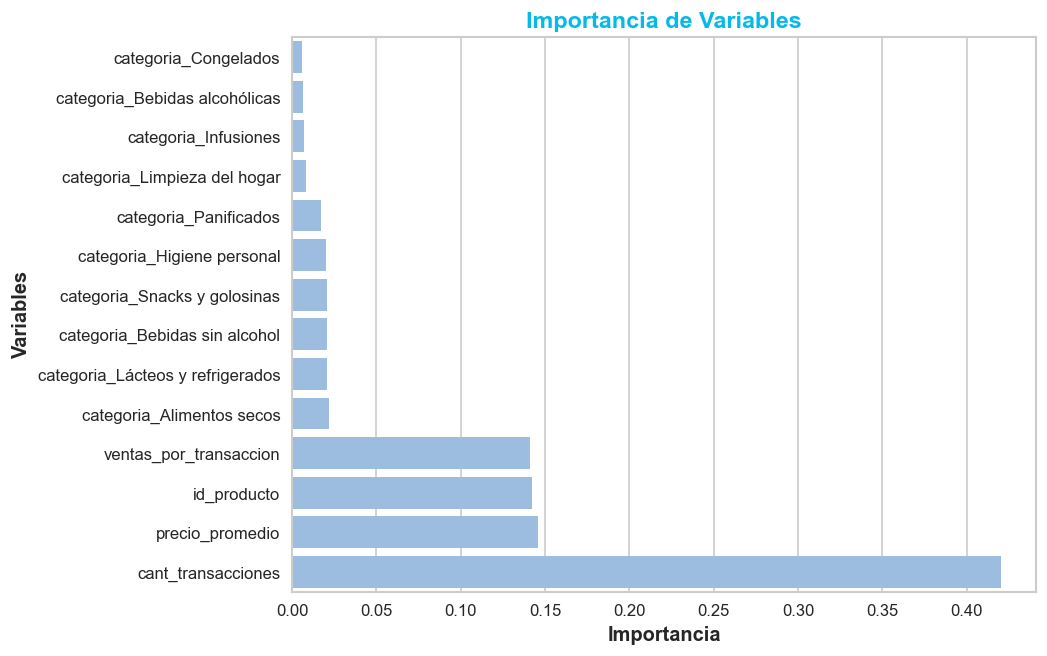
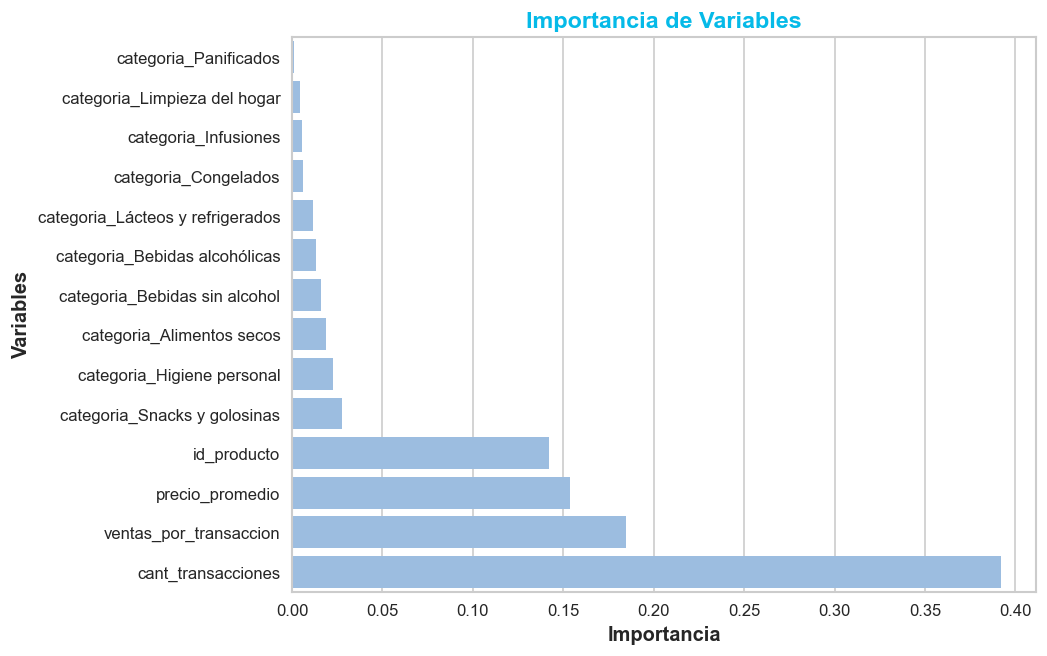
docs: refine and correct project documentation

diff --git a/src/pages/random_forest_manual.py b/src/pages/random_forest_manual.py
@@ -97,6 +97,14 @@ def show_random_forest_manual():
     permitiendo comparar los resultados con modelos generados mediante AutoML
     (PyCaret) y profundizar el entendimiento del algoritmo.
     """
+    st.markdown(
+        """
+        <script>
+            window.scrollTo(0, 0);
+        </script>
+        """,
+        unsafe_allow_html=True
+    )
 
     st.markdown(
         "<h3 style='color:#f1c40f;'>Entrenamiento Manual</h3>",
@@ -169,7 +177,7 @@ def show_random_forest_manual():
         test_size = st.slider("Tamaño del Test (%)", 10, 40, 31) / 100
         
         # Semilla para reproducibilidad
-        random_state = st.number_input("Random State", value=789)
+        random_state = st.number_input("Random State", value=456)
 
     # ===============================================================
     # 4⃣ VALIDACIONES
@@ -235,7 +243,7 @@ def show_random_forest_manual():
             X_train, X_test, y_train, y_test = train_test_split(
                 X, y, 
                 test_size=0.31,     # Mismo que PyCaret
-                random_state=789,   # Mismo que PyCaret
+                random_state=456,   # Mismo que PyCaret
                 stratify=y
             )
             
@@ -247,7 +255,7 @@ def show_random_forest_manual():
                 min_samples_leaf=2,
                 max_features='sqrt',        # Mejor generalización
                 class_weight='balanced',
-                random_state=789,
+                random_state=456,
                 n_jobs=-1
             )
             

diff --git a/src/pages/documentacion.py b/src/pages/documentacion.py
@@ -226,7 +226,7 @@ def mostrar_documentacion():
         # ◽ Ventas por mes
         with st.expander("🔸 Gráfica: Ventas Totales por mes"):
             mostrar_graficos([
-                "assets/plots/Ventas_totales_por_mes.png",
+                "assets/plots/Ventas_Totales_por_Mes.png",
             ], columnas=1)
             mostrar_seccion_md(
                 contenido_md,

diff --git a/src/pages/automated_ml.py b/src/pages/automated_ml.py
@@ -56,7 +56,7 @@ def run_automl(df, target, normalize, remove_multicollinearity):
     setup(
         data=df,
         target=target,
-        session_id=789,
+        session_id=456,
         normalize=normalize,
         remove_multicollinearity=remove_multicollinearity,
         verbose=False

diff --git a/docs/documentacion_tienda_aurelion.md b/docs/documentacion_tienda_aurelion.md
@@ -476,38 +476,37 @@ El experimento se ejecutó con PyCaret utilizando las siguientes configuraciones
   - **Remoción de multicolinealidad**: Activada  
   - **Split train/test**: 69%/31%
   - **Cross-validation**: 10 folds
-  - **Seed (session_id)**: 789
+  - **Seed (session_id)**: 456
   - **Métrica principal (sort)**: AUC
 
-3⃣ **Resultados de la comparación** 🟨🟨🟨🟨🟨🟨🟨🟨🟨
+3⃣ **Resultados de la comparación** 
 
 Los modelos fueron ordenados por AUC (métrica seleccionada en `compare_models`).
 
   🔸 **Top modelos según AUC**
 
-  | Modelo | Accuracy | AUC | F1-Score | Tiempo (s) |
-  |--------|----------|-----|----------|------------|
-  | Random Forest | 0.9697 | 1 | 0.9689 | 1.263 |
-  | LightGBM | 0.9394 | 0.9728 | 0.9388 | 0.14 |
-  | K Neighbors Classifier |	0.4848	| 0.6918 | 0.4577 |	0.06 |
-  | Logistic Regression	| 0.7576	| 0	| 0.7516	| 6.5733 |
-  | Gradient Boosting Classifier	| 1	| 0 |	1 |	0.15 |
-
+  | Model | Accuracy | AUC | Recall | Prec. | F1 | Kappa | MCC | TT (Sec) |
+  |-------|----------|-----|--------|-------|----|-------|-----|----------|
+  | Random Forest Classifier | 0.9091 | 0.996 | 0.9091 | 0.9333 | 0.9115 | 0.865 | 0.8751 | 1.24 |
+  | Light Gradient Boosting Machine | 0.8636 | 0.9708 | 0.8636 | 0.8884 | 0.8624 | 0.7964 | 0.8073 | 0.19 |
+  | K Neighbors Classifier | 0.5152 | 0.7784 | 0.5152 | 0.5755 | 0.5055 | 0.262 | 0.2755 | 0.0667 |
+  | Logistic Regression | 0.7273 | 0 | 0.7273 | 0.7607 | 0.7267 | 0.5904 | 0.6073 | 2.0833 |
+  | Gradient Boosting Classifier | 1 | 0 | 1 | 1 | 1 | 1 | 1 | 0.1333 |
 
 4⃣ **Modelo seleccionado**
    
   **Random Forest Classifier** - Mejor desempeño general con:
     
-  - **Accuracy**: 98.57%
-  - **AUC**: 99.71% 
-  - **F1-Score**: 98.48%
+  - **Accuracy**: 90.91%
+  - **AUC**: 99.6% 
+  - **F1-Score**: 91.15%
 
   🔸 **Interpretación**
-    
-  - Los modelos de ensemble (Random Forest, AdaBoost, Gradient Boosting) dominan el ranking
-  - El desempeño general es excelente, con valores de AUC superiores al 99%.
-  - Los tiempos de entrenamiento fueron muy bajos, adecuados para datasets pequeños como este.
-  - El modelo seleccionado presenta una excelente capacidad predictiva y estabilidad.
+  - Random Forest y LightGBM se destacan como los modelos con mejor capacidad discriminativa, reflejada en sus altos valores de AUC.
+  - Random Forest presenta el mejor equilibrio global entre Accuracy, F1-score y métricas de concordancia (Kappa y MCC), lo que justifica su selección como modelo final.
+  - Los valores de AUC igual a 0 observados en Logistic Regression y Gradient Boosting indican problemas en el cálculo de probabilidades o en la validación, por lo que estos modelos no se consideran confiables para la comparación.
+  - Los tiempos de entrenamiento fueron bajos en todos los casos, lo que es consistente con el tamaño reducido del dataset.
+  - En conjunto, el modelo seleccionado muestra alta capacidad predictiva, estabilidad y buen poder de generalización dentro del contexto del problema.
 
 ---
 
@@ -535,7 +534,7 @@ El modelo fue configurado manualmente en la aplicación Streamlit con los siguie
 - **min_samples_leaf**: 2
 - **max_features**: "sqrt"
 - **class_weight**: "balanced"
-- **random_state**: 789
+- **random_state**: 456
 
 🔹 Configuración del entrenamiento
 
@@ -550,8 +549,8 @@ El modelo fue configurado manualmente en la aplicación Streamlit con los siguie
   
   Durante la validación cruzada, el modelo obtuvo:
 
-  - **Accuracy promedio**: 0.6526
-  - **F1-Score promedio**: 0.6320
+  - **Accuracy promedio**: 0.7158
+  - **F1-Score promedio**: 0.7054
 
   Estos valores reflejan un rendimiento moderado, adecuado para un dataset pequeño.
   
@@ -559,21 +558,27 @@ El modelo fue configurado manualmente en la aplicación Streamlit con los siguie
     
   | Métrica | Valor |
   |---------|-------|
-  | Accuracy | 0.6000 |
-  | Precision | 0.5857 |
-  | Recall | 0.6000 |
-  | F1-Score | 0.5900 |
+  | Accuracy | 0.7000 |
+  | Precision | 0.6767 |
+  | Recall | 0.7000 |
+  | F1-Score | 0.6793 |
 
   El modelo mantiene consistencia entre validación cruzada y test, indicando  comportamiento estable, aunque con margen de mejora.
   
   🔸 **Curva ROC Multiclase (One-vs-Rest)**
   
-  - **AUC Macro**: 0.8433
-  - **Clase 0 (Baja demanda)**: AUC = 0.92
-  - **Clase 1 (Media demanda)**: AUC = 0.75  
-  - **Clase 2 (Alta demanda)**: AUC = 0.86 
+  El modelo muestra un desempeño global adecuado con un **AUC Macro de 0.8167**, indicando una buena capacidad general de discriminación entre clases.
 
-  La clase “Media” es la más difícil de separar, algo esperable por su posición   intermedia entre “Baja” y “Alta”.
+- **Clase 0 (Baja demanda)**: AUC = 0.88  
+  Buen nivel de separación, con baja tasa de falsos positivos.
+
+- **Clase 1 (Media demanda)**: AUC = 0.62  
+  Es la clase más difícil de discriminar, lo cual es esperable por su naturaleza intermedia entre baja y alta demanda.
+
+- **Clase 2 (Alta demanda)**: AUC = 0.95  
+  Excelente capacidad predictiva, con una separación muy clara respecto al resto de las clases.
+
+En conjunto, el modelo distingue muy bien los extremos de demanda, mientras que la categoría intermedia presenta mayor solapamiento.
 
 <h5>4⃣ <b>Análisis de resultados</b></h5>
 
@@ -590,11 +595,11 @@ El modelo fue configurado manualmente en la aplicación Streamlit con los siguie
     
   **Top 5 features más importantes**:
     
-  1. `cant_transacciones` (0.4151)
-  2. `id_producto` (0.1534) 
-  3. `precio_promedio` (0.1517)
-  4. `ventas_por_transaccion` (0.1355)
-  5. `categoria_Higiene personal` (0.0224)
+  1. `cant_transacciones` (0.3918)
+  2. `ventas_por_transaccion` (0.1848)
+  3. `precio_promedio` (0.1537)
+  4. `id_producto` (0.1421) 
+  5. `categoria_Snacks y golosinas` (0.0275)
 
   Los resultados destacan la importancia del volumen de operaciones y precio promedio, variables clave para entender la demanda.
 
@@ -602,9 +607,9 @@ El modelo fue configurado manualmente en la aplicación Streamlit con los siguie
 
   | Clase | Precision | Recall | F1-Score |
   |-------|-----------|--------|----------|
-  | Baja (0) | 0.714 | 0.833 | 0.769 |
-  | Media (1) | 0.375 | 0.333 | 0.353 |
-  | Alta (2) | 0.625 | 0.556 | 0.588 |
+  | Baja (0) | 0.733 | 0.917 | 0.815 |
+  | Media (1) | 0.500 | 0.333 | 0.400 |
+  | Alta (2) | 0.778 | 0.778 | 0.778 |
 
   La clase “Media” continúa siendo la más débil; se beneficiaría de más datos o técnicas de oversampling futuro.
 
@@ -623,8 +628,8 @@ Conclusión: el modelo generaliza razonablemente bien, pero sería beneficioso e
   
   | Aspecto | AutoML (PyCaret) | RF Manual |
   |---------|------------------|-----------|
-  | Accuracy Test | 98.57% | 60.00% |
-  | AUC Macro | 99.71% | 84.33% |
+  | Accuracy Test | 90.91% | 70.00% |
+  | AUC Macro | 99.60% | 81.67% |
   | Configuración | Automática | Manual optimizado |
   | Interpretabilidad | Media | Alta |
   | Generalización | Potencial overfitting | Más Realista |
